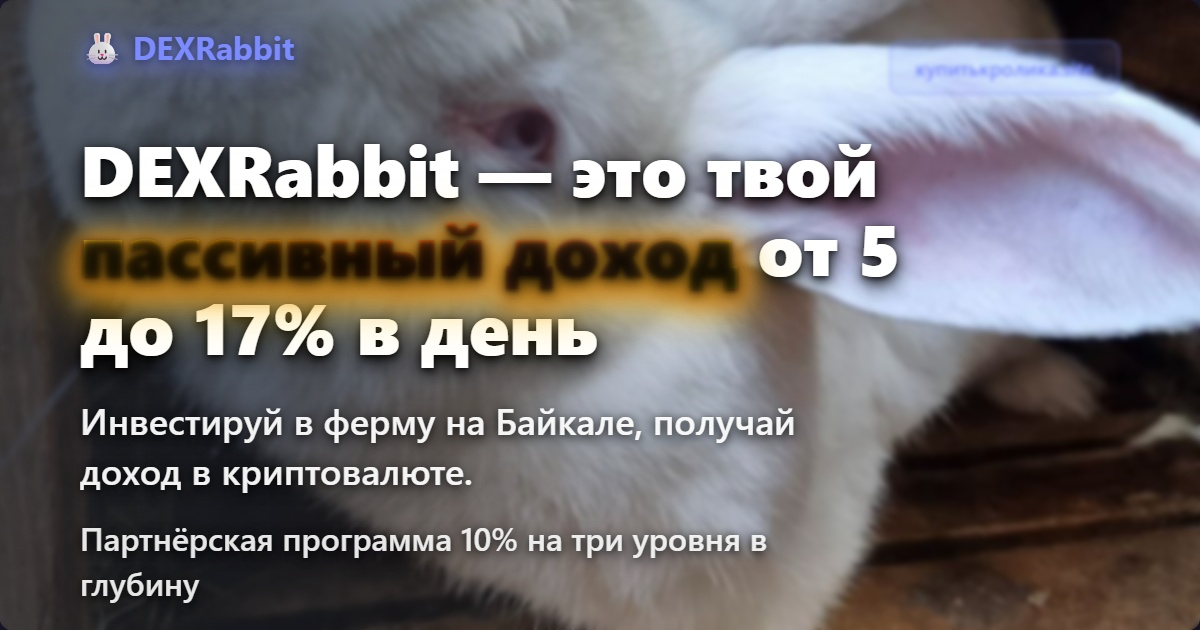
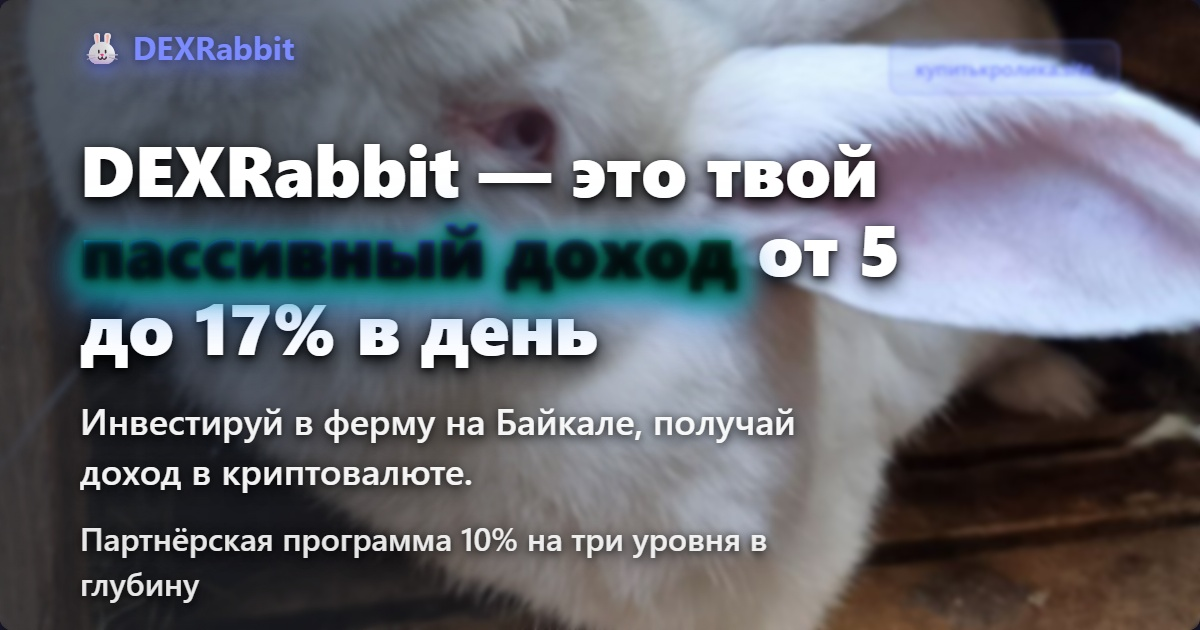
style(og): Неон зелено-голубой градиент для пассивного дохода
НОВЫЙ ПРЕМИАЛЬНЫЙ ГРАДИЕНТ:

1 Применен неон зелено-голубой градиент:
   ДО:  Золотой (#facc15  #fb923c)
         Золотистые тона
         Неплохо, но не ассоциировался с крипто

   ПОСЛЕ: Неон зелено-голубой
          #10b981 (Изумрудно-зеленый)
          #06b6d4 (Циан голубой)
          #3b82f6 (Синий)
         Тройное свечение (greencyanblue)
         Анимация 3 секунды

2 Почему этот градиент ОТЛИЧНЫЙ:
     Ассоциируется с ростом и развитием
     Символизирует прибыль и успех
     Энергичный и свежий взгляд
     Отлично привлекает внимание
     Вызывает позитивные эмоции
     Динамичный современный стиль
     Идеально для крипто-проекта

3 Обновлена версия изображения:
    v=20251005-GOLDEN-GRADIENT  v=20251005-NEON-GREEN-CYAN
    Обновлены og:image и twitter:image
    Новое OG изображение 1200x630px

 РЕЗУЛЬТАТ:
    Текст 'пассивный доход': неон зелено-голубой
    Ассоциация с ростом капитала
    Крипто-стиль и современность
    Отличная читаемость
    Привлекает инвесторов

 СОВМЕСТИМОСТЬ:
    Facebook
    VK
    Telegram
    Twitter/X
    WhatsApp

Files:
- og/og-generator.html (неон градиент)
- og/og-rabbit.jpg (пересозданное изображение)
- index.html (обновлена версия)

Changed region(s): [[0.0308, 0.3016, 0.6475, 0.5429]]

diff --git a/og/og-generator.html b/og/og-generator.html
@@ -92,24 +92,24 @@
         }
 
         .og-title .highlight {
-            background: linear-gradient(135deg, #facc15 0%, #fbbf24 25%, #f59e0b 50%, #f97316 75%, #fb923c 100%);
+            background: linear-gradient(135deg, #10b981 0%, #06b6d4 50%, #3b82f6 100%);
             -webkit-background-clip: text;
             -webkit-text-fill-color: transparent;
             background-clip: text;
-            filter: drop-shadow(0 4px 12px rgba(251, 191, 36, 0.9)) 
-                    drop-shadow(0 2px 6px rgba(249, 115, 22, 0.8)) 
-                    drop-shadow(0 8px 24px rgba(250, 204, 21, 0.6));
+            filter: drop-shadow(0 4px 12px rgba(16, 185, 129, 0.9)) 
+                    drop-shadow(0 2px 6px rgba(6, 182, 212, 0.8)) 
+                    drop-shadow(0 8px 24px rgba(59, 130, 246, 0.6));
             animation: gradientShift 3s ease-in-out infinite;
         }
 
         @keyframes gradientShift {
             0%, 100% {
-                background: linear-gradient(135deg, #facc15 0%, #fbbf24 25%, #f59e0b 50%, #f97316 75%, #fb923c 100%);
+                background: linear-gradient(135deg, #10b981 0%, #06b6d4 50%, #3b82f6 100%);
                 -webkit-background-clip: text;
                 background-clip: text;
             }
             50% {
-                background: linear-gradient(135deg, #fbbf24 0%, #f59e0b 25%, #f97316 50%, #fb923c 75%, #facc15 100%);
+                background: linear-gradient(135deg, #06b6d4 0%, #3b82f6 50%, #10b981 100%);
                 -webkit-background-clip: text;
                 background-clip: text;
             }

diff --git a/index.html b/index.html
@@ -25,9 +25,9 @@
     <meta property="og:url" content="https://xn--80apagbbfxgmuj4j.site/" />
     <meta
       property="og:image"
-      content="https://xn--80apagbbfxgmuj4j.site/og/og-rabbit.jpg?v=20251005-GOLDEN-GRADIENT"
+      content="https://xn--80apagbbfxgmuj4j.site/og/og-rabbit.jpg?v=20251005-NEON-GREEN-CYAN"
     />
-    <meta property="og:image:secure_url" content="https://xn--80apagbbfxgmuj4j.site/og/og-rabbit.jpg?v=20251005-GOLDEN-GRADIENT" />
+    <meta property="og:image:secure_url" content="https://xn--80apagbbfxgmuj4j.site/og/og-rabbit.jpg?v=20251005-NEON-GREEN-CYAN" />
     <meta property="og:image:width" content="1200" />
     <meta property="og:image:height" content="630" />
     <meta property="og:image:type" content="image/jpeg" />
@@ -47,7 +47,7 @@
     />
     <meta
       name="twitter:image"
-      content="https://xn--80apagbbfxgmuj4j.site/og/og-rabbit.jpg?v=20251005-GOLDEN-GRADIENT"
+      content="https://xn--80apagbbfxgmuj4j.site/og/og-rabbit.jpg?v=20251005-NEON-GREEN-CYAN"
     />
     <meta name="twitter:image:alt" content="DEXRabbit - Токенизированная ферма кроликов" />
 
